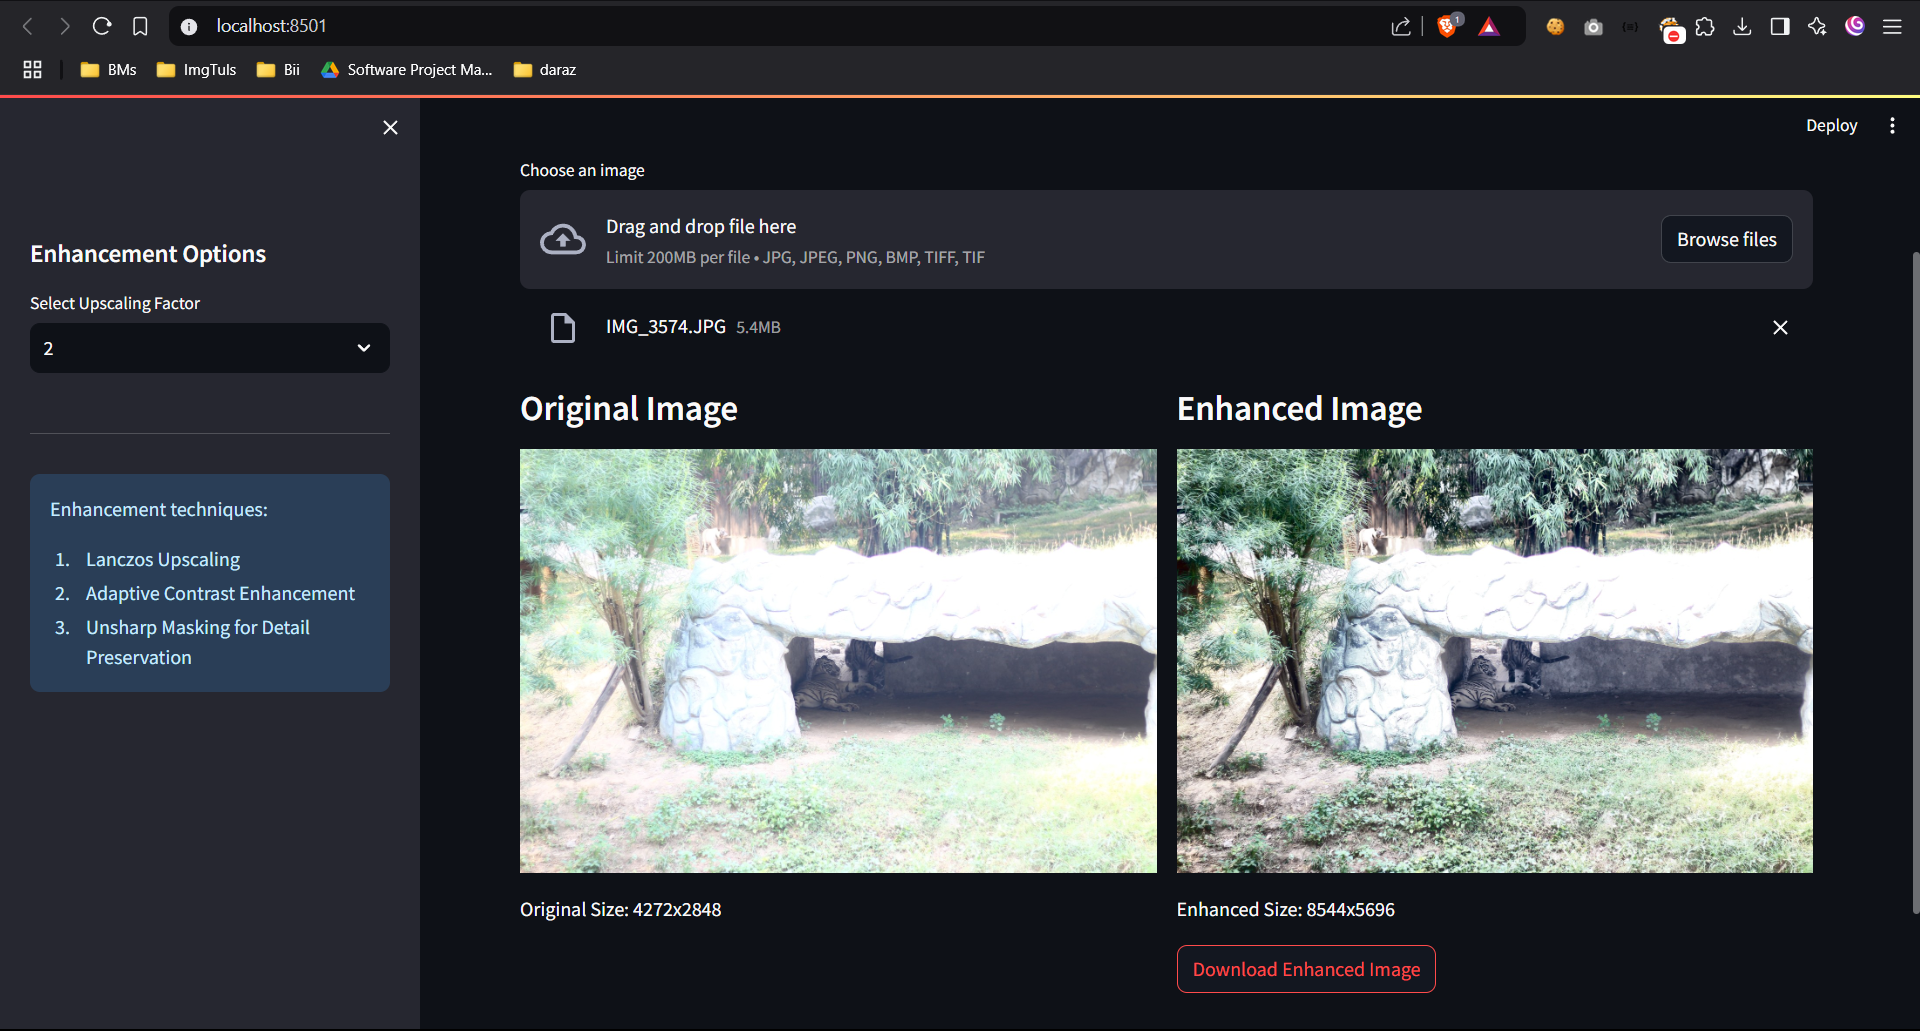
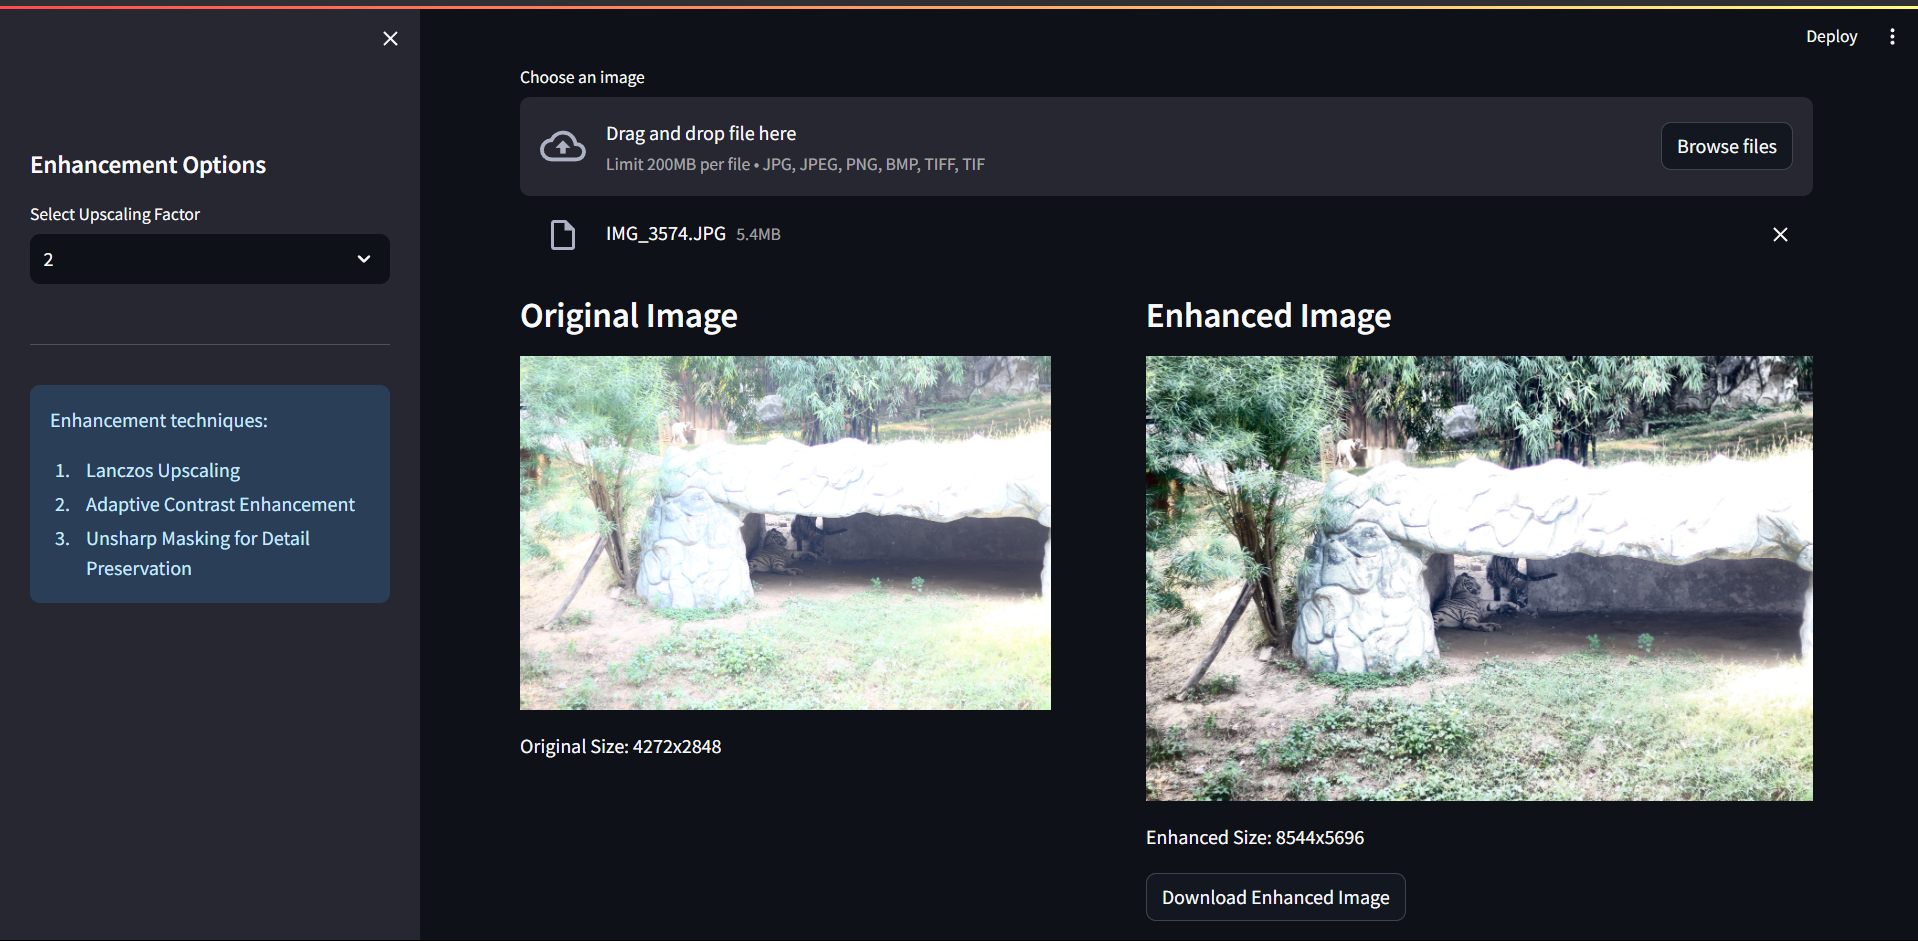
updated result comparision section for better UX

diff --git a/main.py b/main.py
@@ -56,7 +56,7 @@ class AdvancedImageUpscaler:
         return enhanced
 
     @staticmethod
-    def adjust_saturation(image, saturation_scale=3.0): #0.0 to 3.0. 
+    def adjust_saturation(image, saturation_scale=3.0):
         """
         Adjust the saturation of the image
         
@@ -138,13 +138,17 @@ def main():
         file_bytes = np.array(bytearray(uploaded_file.read()), dtype=np.uint8)
         original_image = cv2.imdecode(file_bytes, cv2.IMREAD_COLOR)
 
-        # Create columns for before and after
-        col1, col2 = st.columns(2)
+        # Create columns for before and after with different widths
+        col1, spacer, col2 = st.columns([4, 0.5, 5])
 
         with col1:
             st.subheader("Original Image")
-            st.image(cv2.cvtColor(original_image, cv2.COLOR_BGR2RGB), 
-                     use_column_width=True)
+            # Display original image at 90% of column width
+            st.image(
+                cv2.cvtColor(original_image, cv2.COLOR_BGR2RGB),
+                use_column_width=True,
+                width=300  # Base width for original image
+            )
             
             # Display original image details
             orig_height, orig_width = original_image.shape[:2]
@@ -157,9 +161,12 @@ def main():
             upscaler = AdvancedImageUpscaler()
             enhanced_image = upscaler.upscale(original_image, scale_factor)
             
-            # Display enhanced image
-            st.image(cv2.cvtColor(enhanced_image, cv2.COLOR_BGR2RGB), 
-                     use_column_width=True)
+            # Display enhanced image at full column width
+            st.image(
+                cv2.cvtColor(enhanced_image, cv2.COLOR_BGR2RGB),
+                use_column_width=True,
+                width=400  # Larger base width for enhanced image
+            )
             
             # Display enhanced image details
             new_height, new_width = enhanced_image.shape[:2]

diff --git a/Documentation/Initial Documentation.md b/Documentation/Initial Documentation.md
@@ -1,4 +1,7 @@
 Ref: https://claude.ai/chat/b2bba9ac-41cc-4154-8fef-c2af55ac70d3
+https://claude.ai/chat/173e5b57-d7c7-48ca-9391-dca200b3e28c
+
+
 
 ##Image Scaler/Enhancer leveraging Lanczos Interpolation and CLAHE Algorithm
 
